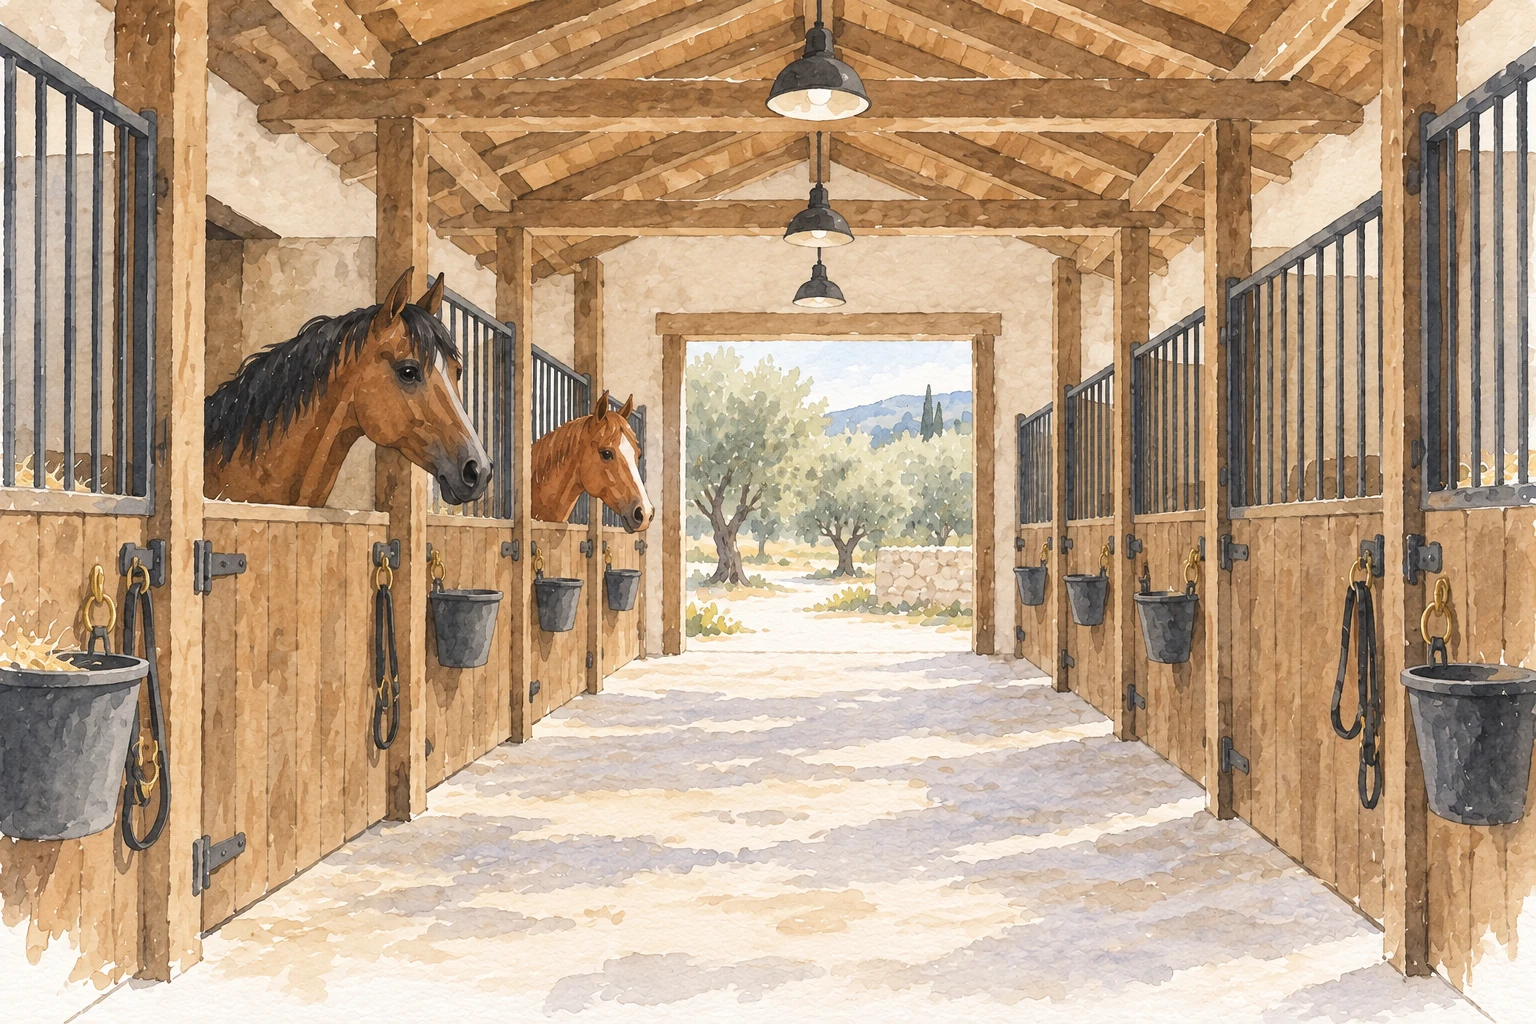
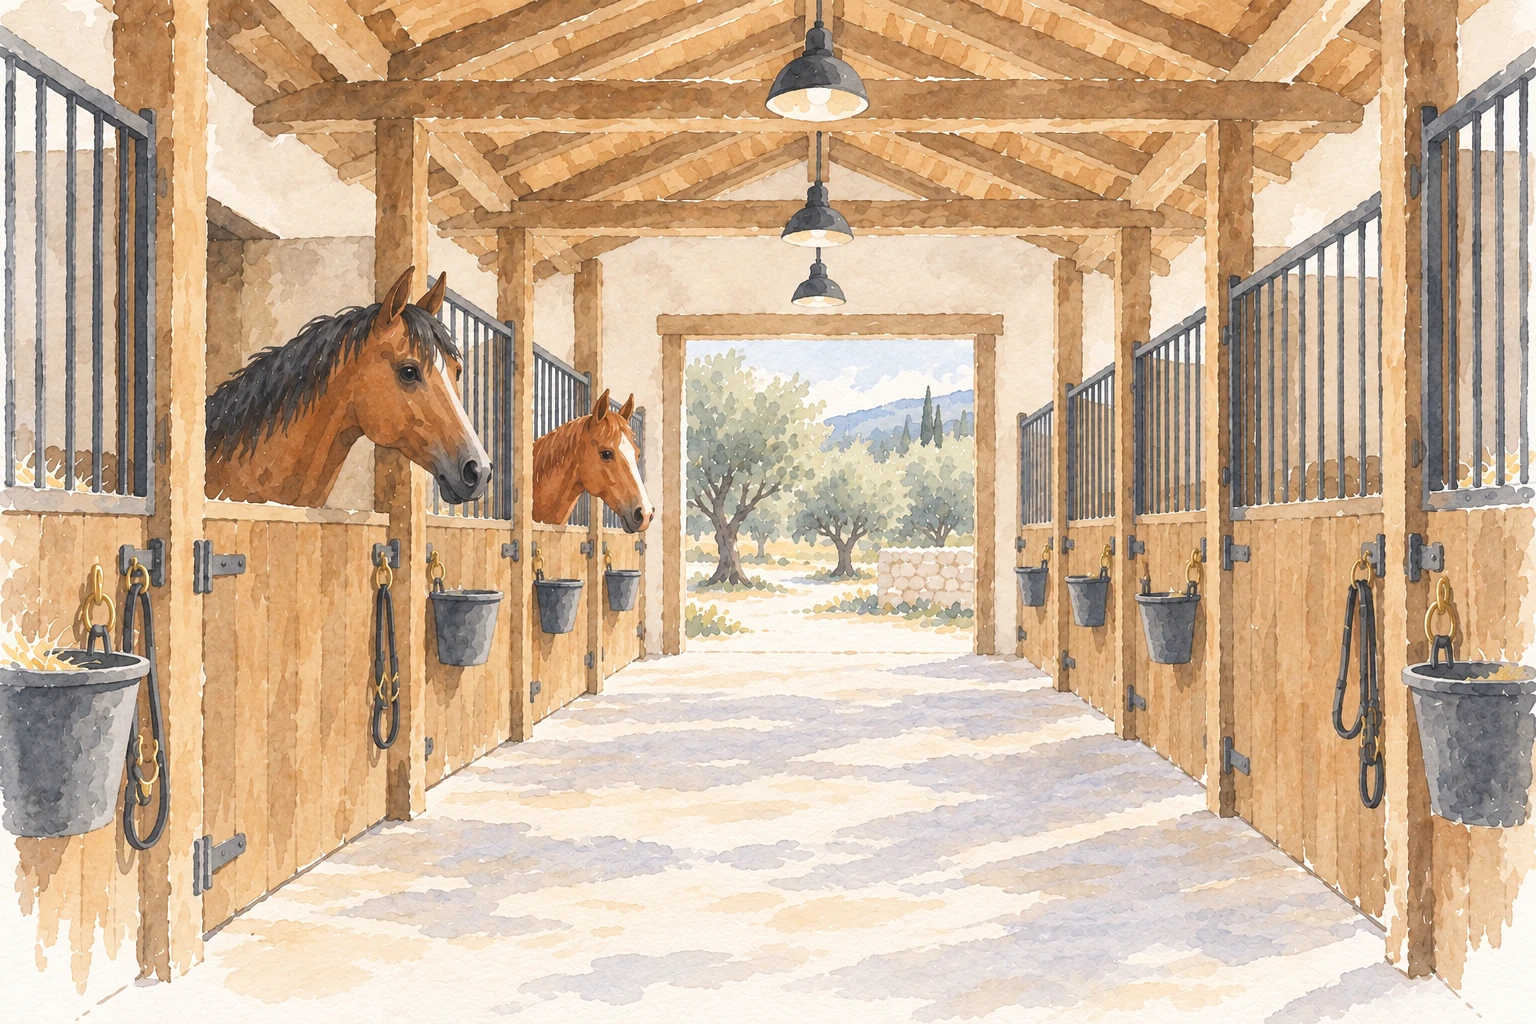
Restore the loose Farm House watercolor set (#695)
* Restore the seven loose Farm House watercolor illustrations

* Fix the loose watercolor set as the Farm House visual reference

diff --git a/farm-house/index.html b/farm-house/index.html
@@ -106,7 +106,7 @@ permalink: /farm-house/
         <p class="eyebrow">From The House</p>
         <h1 id="intro-title" tabindex="-1">The Farm House</h1>
         <button class="photograph" id="photo" aria-label="Enter the picture of the farm house">
-          <img src="assets/exterior-watercolor.webp?v=20260930-finished" width="1536" height="1024" alt="A watercolor view of a cared-for two-story farmhouse, with flowers on the veranda and a path through a green garden.">
+          <img src="assets/exterior-watercolor.webp?v=20261001-loose" width="1536" height="1024" alt="A watercolor view of a cared-for two-story farmhouse, with flowers on the veranda and a path through a green garden.">
           <span class="photo-inscription">The house in summer.</span>
         </button>
         <p class="intro-copy">The family still comes here in summer.<br>Today, no one is home.</p>
@@ -114,7 +114,7 @@ permalink: /farm-house/
       </section>
       <section class="visit" id="visit" aria-label="Explore the house" hidden>
         <div class="frame" id="frame">
-          <img class="scene-img" id="scene-image" src="assets/exterior-watercolor.webp?v=20260930-finished" width="1536" height="1024" alt="">
+          <img class="scene-img" id="scene-image" src="assets/exterior-watercolor.webp?v=20261001-loose" width="1536" height="1024" alt="">
           <div class="hotspots" id="hotspots"></div>
         </div>
         <div class="scene-under">
@@ -128,7 +128,7 @@ permalink: /farm-house/
         </div>
       </section>
       <section class="ending" id="ending" hidden aria-labelledby="ending-title">
-        <div class="ending-photo"><img src="assets/upstairs-watercolor.webp?v=20260930-finished" width="1536" height="1024" alt="A watercolor of the upstairs room, with her bed beside the window."></div>
+        <div class="ending-photo"><img src="assets/upstairs-watercolor.webp?v=20261001-loose" width="1536" height="1024" alt="A watercolor of the upstairs room, with her bed beside the window."></div>
         <p class="eyebrow">After the visit</p>
         <h1 id="ending-title" tabindex="-1">The upstairs room.</h1>
         <p>Everyone who came to the house<br>went upstairs before they left.</p>
@@ -161,8 +161,8 @@ permalink: /farm-house/
   (() => {
     'use strict';
     const $ = id => document.getElementById(id);
-    // The finished watercolor set, with an intermediate finish for the upstairs room.
-    const sceneAssets = { exterior:'assets/exterior-watercolor.webp?v=20260930-finished', hall:'assets/hall-watercolor.webp?v=20260930-finished', upstairs:'assets/upstairs-watercolor.webp?v=20260930-finished', kitchen:'assets/kitchen-watercolor.webp?v=20260930-finished', garden:'assets/garden-watercolor.webp?v=20260930-finished', stableYard:'assets/stable-yard-watercolor.webp?v=20260930-finished', stable:'assets/stable-watercolor.webp?v=20260930-finished' };
+    // The loose watercolor set uses the original upstairs painting as its style anchor.
+    const sceneAssets = { exterior:'assets/exterior-watercolor.webp?v=20261001-loose', hall:'assets/hall-watercolor.webp?v=20261001-loose', upstairs:'assets/upstairs-watercolor.webp?v=20261001-loose', kitchen:'assets/kitchen-watercolor.webp?v=20261001-loose', garden:'assets/garden-watercolor.webp?v=20261001-loose', stableYard:'assets/stable-yard-watercolor.webp?v=20261001-loose', stable:'assets/stable-watercolor.webp?v=20261001-loose' };
     const state = { scene: 'intro', visitedUpstairs: false, bed: false, walnuts: false, letter: false, hints: false, detail: null };
     const scenes = {
       exterior: {
@@ -245,7 +245,7 @@ permalink: /farm-house/
       veranda:{kicker:'Outside',title:'The veranda.',image:'exterior',position:'73% 60%',zoom:'280%',alt:'The veranda table and chairs beside flowering plants.',body:['The family uses the house in summer.','Their belongings are still here.'],actions:[['Look around','close']]},
       kettle:{kicker:'By the window',title:'The kettle.',image:'kitchen',position:'37% 40%',zoom:'440%',alt:'The metal kettle with its black handle, beside the window.',body:['The kettle stands beside a row of glasses.'],actions:[['Back to the kitchen','close']]},
       shoppingList:{kicker:'On the table',title:'The shopping list.',image:'kitchen',position:'92% 84%',mobilePosition:'92% 79%',zoom:'440%',alt:'A small folded shopping list on the wooden kitchen table.',body:['Beside “walnuts”, someone has written “for upstairs”.'],actions:[['Back to the kitchen','close']]},
-      robin:{kicker:'Erithacus rubecula',title:'A European robin.',image:'garden',position:'7% 76%',zoom:'440%',alt:'A European robin perched on the low stone wall, with an orange breast and brown back.',body:['Both males and females have an orange-red breast.','Robins often follow gardeners, picking up worms and grubs from newly turned soil.'],actions:[['Back to the garden','close']],source:{label:'RSPB bird guide',url:'https://www.rspb.org.uk/birds-and-wildlife/robin'}},
+      robin:{kicker:'Erithacus rubecula',title:'A European robin.',image:'garden',position:'7% 76%',zoom:'500%',alt:'A European robin perched on the low stone wall, with an orange breast and brown back.',body:['Both males and females have an orange-red breast.','Robins often follow gardeners, picking up worms and grubs from newly turned soil.'],actions:[['Back to the garden','close']],source:{label:'RSPB bird guide',url:'https://www.rspb.org.uk/birds-and-wildlife/robin'}},
       hydrangea:{kicker:'Hydrangea macrophylla',title:'A mophead hydrangea.',image:'garden',position:'100% 73%',zoom:'260%',alt:'Rounded pink hydrangea flower heads above broad green leaves.',body:['Mophead hydrangeas have rounded flower heads that last through much of the summer.','The large heads are clusters of small flowers.'],actions:[['Back to the garden','close']],source:{label:'RHS plant guide',url:'https://www.rhs.org.uk/plants/hydrangea/shrubby/growing-guide'}},
       window:{kicker:'Upstairs',title:'The farm.',image:'upstairs',position:'0% 10%',zoom:'280%',alt:'Part of the stable roof and a cultivated field beyond olive trees, seen through the upstairs window.',body:['She could see the stable and the field from her bed.','She kept up with the work on the farm.'],actions:[['Back to the room','close']]},
       bed:{kicker:'By the window',title:'Her bed.',image:'upstairs',position:'11% 56%',zoom:'220%',alt:'The grandmother’s neatly made bed by the window.',body:['This was the upstairs sitting room. Her bed stood here, beside the window.','She had been bedridden for as long as Doğu could remember. Everyone who visited came up to see her.'],actions:[['Back to the room','close']]},

diff --git a/AGENTS.md b/AGENTS.md
@@ -29,6 +29,19 @@ The Farm House is a growing fictional world where visitors can spend time
 and feel close to nature. Its existing family story unfolds gradually.
 Wandering and observing should be worthwhile on their own.
 
+- **The visual set is fixed.** The seven loose watercolor illustrations restored
+  on 1 October 2026 are the canonical set: `exterior-watercolor.webp`,
+  `hall-watercolor.webp`, `kitchen-watercolor.webp`, `garden-watercolor.webp`,
+  `stable-yard-watercolor.webp`, `stable-watercolor.webp` and
+  `upstairs-watercolor.webp`, all in `farm-house/assets/`. These are the exact
+  images from commit `d48a4fc`; the upstairs image also appears at the story's
+  ending. Keep their finish and style unless the author explicitly requests a
+  change. The original upstairs watercolor is the style reference for new
+  scenes: broad brush marks, transparent washes, a limited value range,
+  visible pencil, occasional unfinished edges and exposed white paper. Use
+  existing scenes for objects, placement, relative scale and camera angle;
+  paint new scenes from scratch in this language. Preserve important objects
+  and avoid inventing decoration or copying a former render's surface detail.
 - Let the story develop through occasional discoveries and small traces in
   the rooms. Give each addition time to settle. Preserve the unanswered
   questions in the existing story, including why the grandmother kept the
@@ -39,7 +52,7 @@ Wandering and observing should be worthwhile on their own.
   Plants and birds are part of the world visitors can learn to recognize.
 - Complete the spring/summer setting first. For now, keep new scenes bright,
   sunlit and suggestive of spring or summer; autumn and winter views can follow.
-  Keep the lighting photographic and natural across scenes. Preserve believable
+  Keep the light natural in the watercolor scenes. Preserve believable
   differences between direct sun, veranda shade and window-lit interiors; avoid
   exaggerated yellow casts, glowing highlights and uniformly bright shadows.
 - Let the natural world change with the seasons, including which birds are
